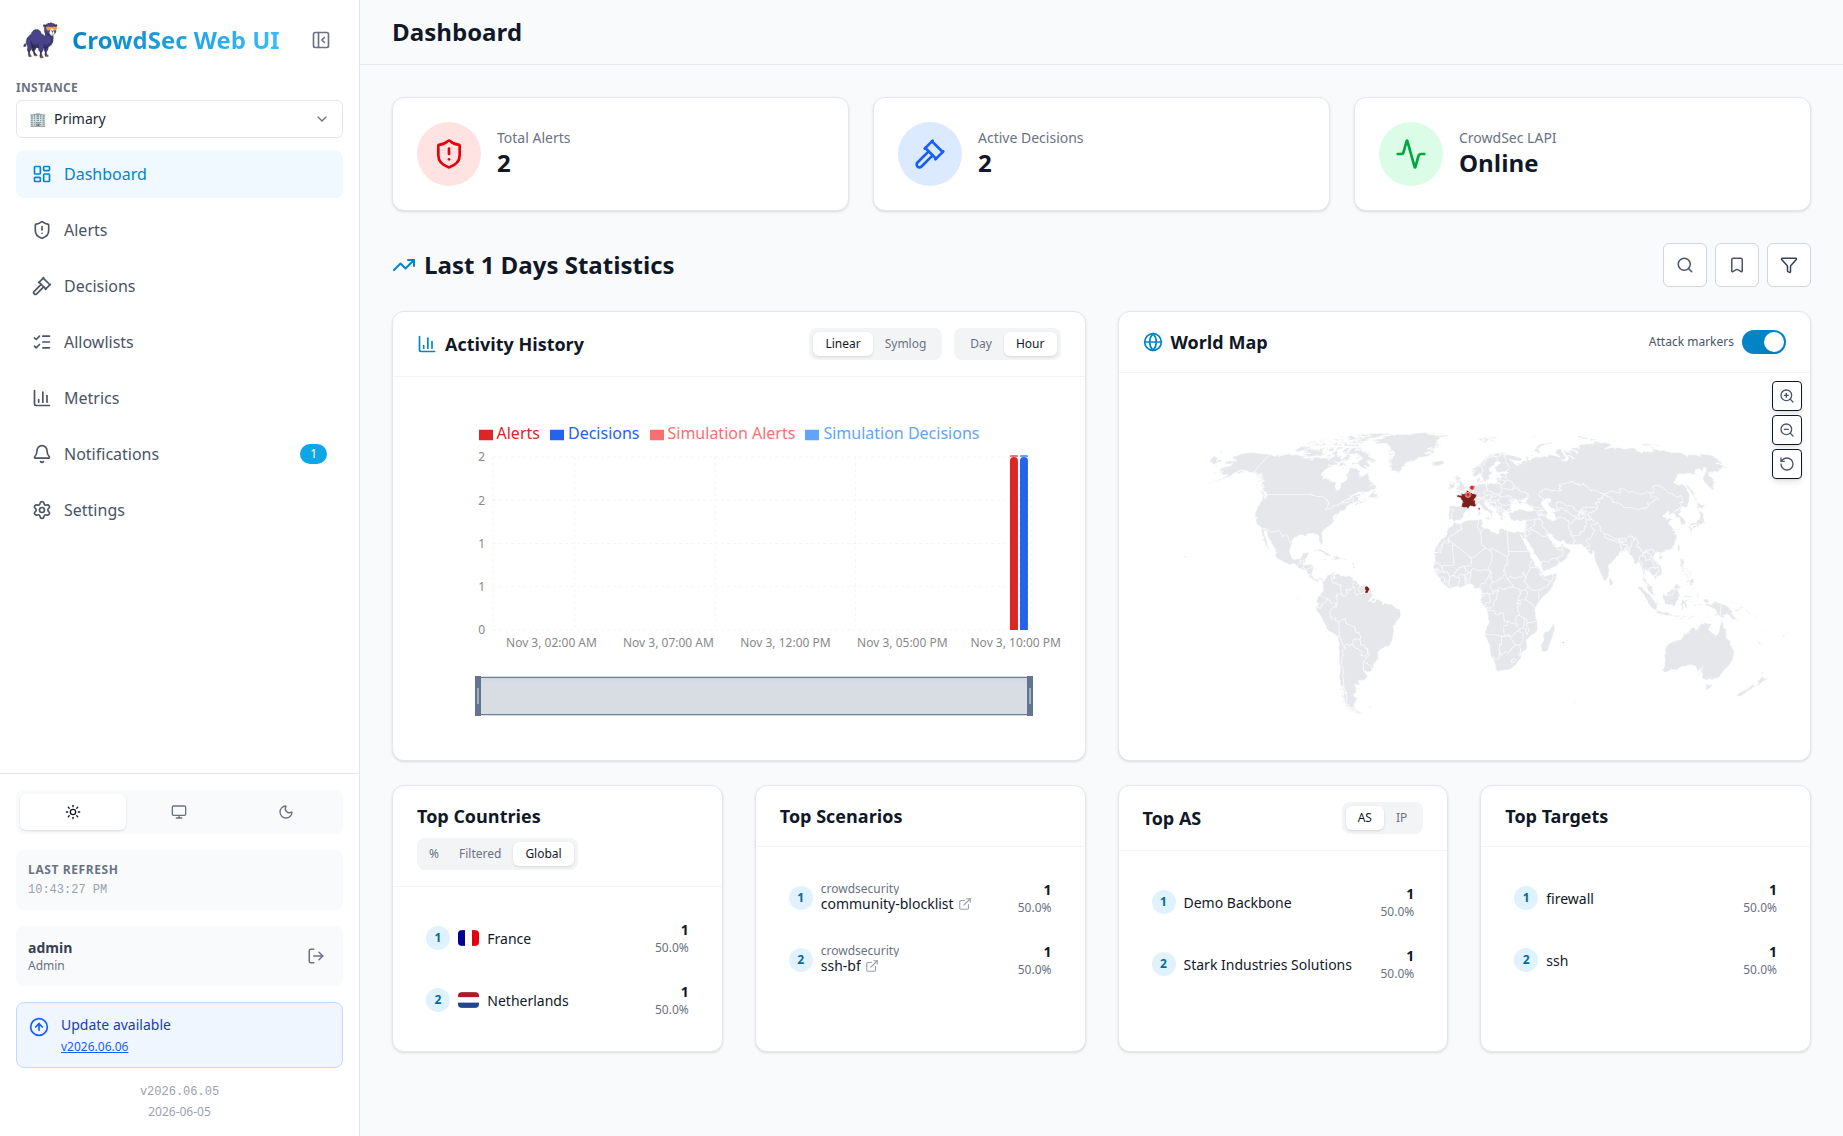
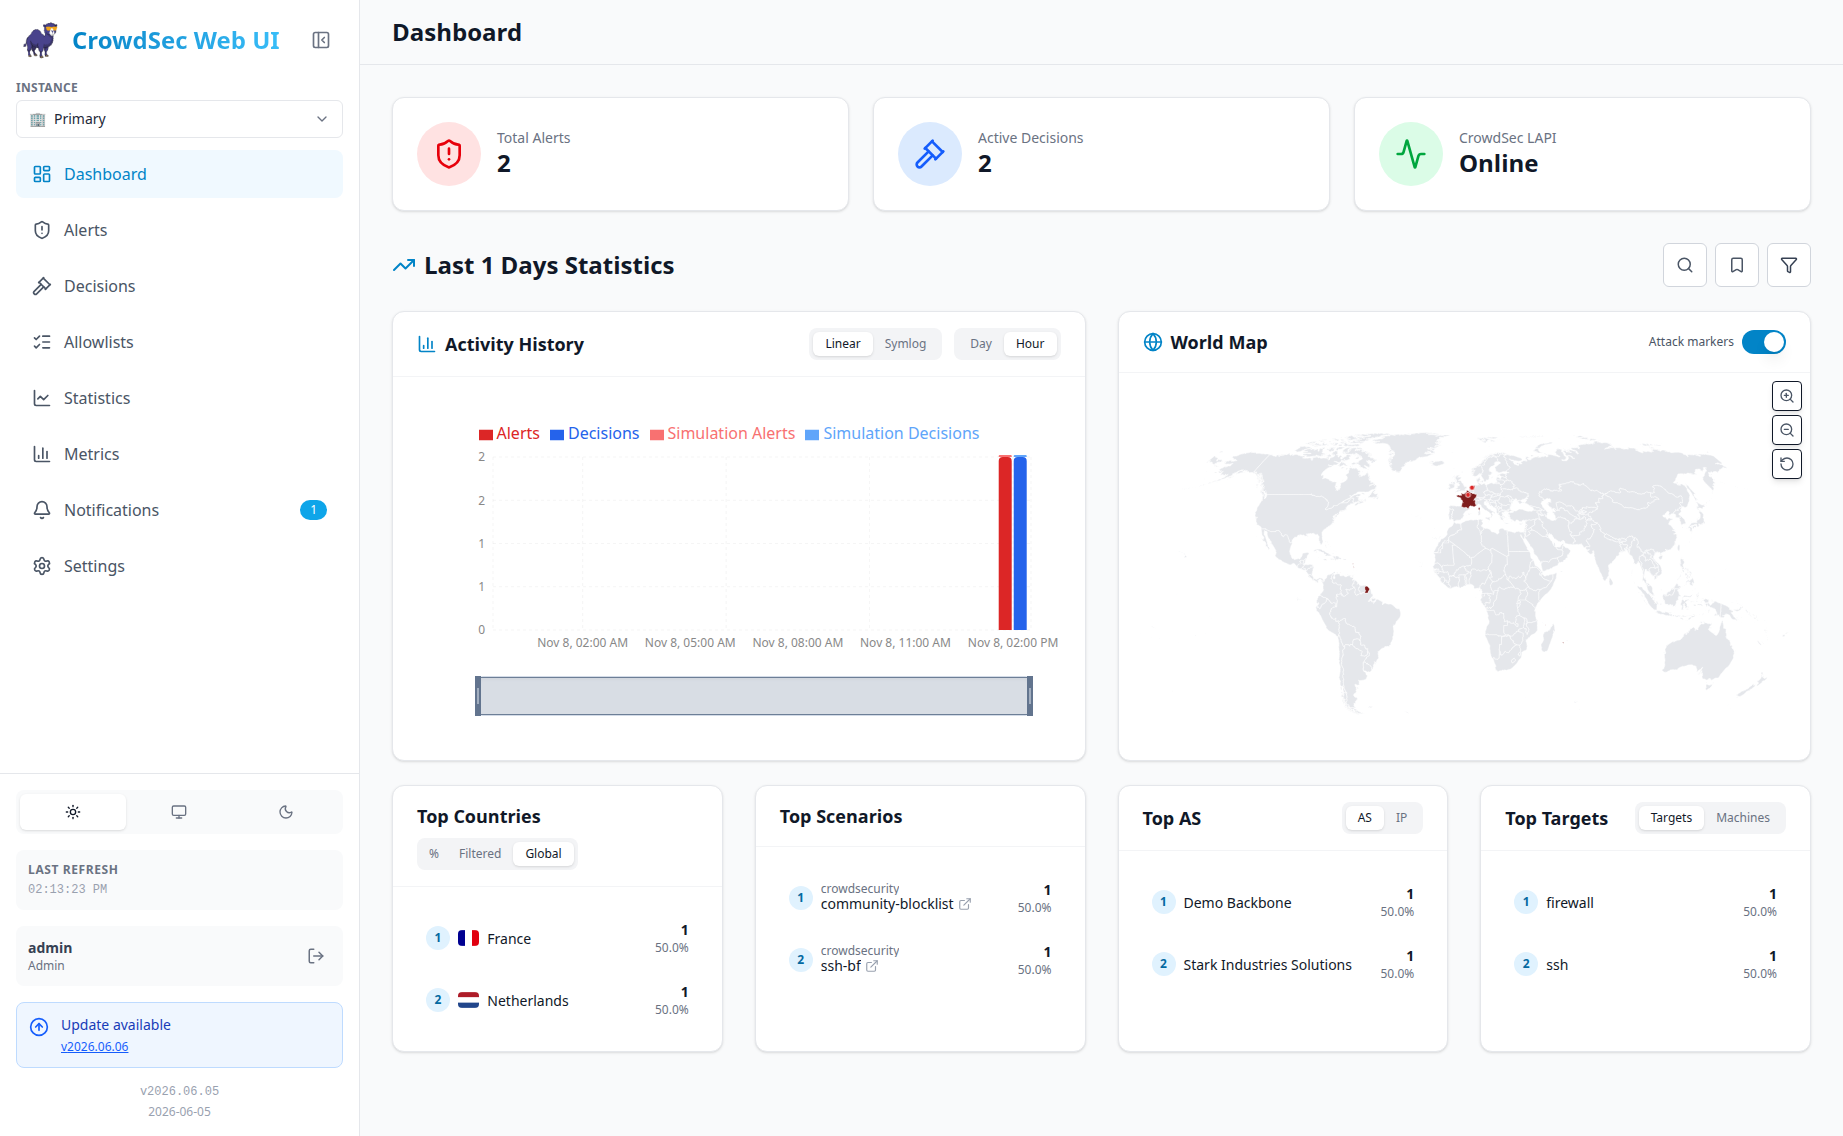
Refresh screenshots and document Statistics

diff --git a/screenshots/seed-demo-data.ts b/screenshots/seed-demo-data.ts
@@ -1,5 +1,6 @@
 import { rmSync } from 'node:fs';
 import path from 'node:path';
+import { removeStatisticsDatabase, seedStatisticsArchive } from '../scripts/load-test-statistics';
 import { hashPassword } from '../server/app-auth';
 import { CACHE_DATABASE_FILE, CrowdsecDatabase, STATE_DATABASE_FILE } from '../server/database';
 
@@ -13,6 +14,7 @@ for (const file of [CACHE_DATABASE_FILE, STATE_DATABASE_FILE, 'crowdsec.db']) {
     rmSync(path.join(dbDir, `${file}${suffix}`), { force: true });
   }
 }
+removeStatisticsDatabase(dbDir);
 rmSync(configPath, { force: true });
 
 const database = new CrowdsecDatabase({ dataDir: dbDir });
@@ -405,6 +407,20 @@ database.insertNotification({
 
 database.setMeta('refresh_interval_ms', '300000');
 database.setMeta('multi_instance_cache_schema_ready', 'true');
+database.setMeta('statistics_settings', JSON.stringify({ enabled: true }));
 database.close();
+
+// Keep the older demo traffic in the archive so the other pages retain their small cache fixtures.
+for (const [index, { instanceId, dailyAlerts }] of [
+  { instanceId: 'primary', dailyAlerts: 120 },
+  { instanceId: 'branch', dailyAlerts: 70 },
+  { instanceId: 'edge', dailyAlerts: 45 },
+].entries()) {
+  seedStatisticsArchive({
+    dbDir, instanceId, seed: index + 1, sourceSeed: 1, nowMs: now.getTime(),
+    historyDays: 30, cacheStartMs: Date.parse(pastIso(1)), dailyAlerts, retentionDays: 90,
+    log: (message) => console.log(`${instanceId}: ${message}`),
+  });
+}
 
 console.log(`Seeded screenshot databases in ${dbDir}`);

diff --git a/scripts/load-test-statistics.ts b/scripts/load-test-statistics.ts
@@ -193,12 +193,12 @@ export function seedStatisticsArchive(options: {
         const shape = statisticsAlertShape(index, atMs, nowMs, seed, sourceSeed);
         const identity = ['loadtest-archive', instanceId, index];
         rows.push({ seq: ++sequence, identity: JSON.stringify(identity), day: at.slice(0, 10), payload: JSON.stringify([1, 'a', at, instanceId, shape.ip,
-          shape.country, shape.asNumber, shape.asName, shape.machine, shape.machine, shape.scenario, shape.simulated ? 1 : 0, shape.eventsCount]) });
+          shape.country, shape.asNumber, shape.asName, shape.machine, shape.machine, shape.scenario, shape.simulated ? 1 : 0, shape.eventsCount, shape.target]) });
         alerts += 1;
         if (shape.bans) {
           rows.push({ seq: ++sequence, identity: JSON.stringify(['loadtest-archive-decision', instanceId, index]), day: at.slice(0, 10), payload: JSON.stringify([1, 'd', at, instanceId,
             shape.ip, shape.country, shape.asNumber, shape.asName, shape.machine, shape.machine, shape.scenario, shape.simulated ? 1 : 0,
-            at, shape.simulated ? 1 : 0, shape.decisionType, 'crowdsec', identity]) });
+            at, shape.simulated ? 1 : 0, shape.decisionType, 'crowdsec', identity, shape.target]) });
           decisions += 1;
         }
         if (rows.length >= 20_000) flush();

diff --git a/screenshots/demo-server.ts b/screenshots/demo-server.ts
@@ -210,8 +210,15 @@ const controller = createApp({
   mqttPublishImpl: async () => {},
 });
 
+await controller.statistics.run();
+const { error, backlog, backfillPending } = controller.statistics.configuration().status;
+if (error || backlog || backfillPending) {
+  throw new Error(error || 'Screenshot statistics backfill did not finish');
+}
+
 const server = serve({
   fetch: controller.fetch,
+  hostname: '127.0.0.1',
   port: controller.config.port,
 });
 

diff --git a/README.md b/README.md
@@ -14,7 +14,7 @@
 
 # CrowdSec Web UI
 
-A self-hosted dashboard for [CrowdSec](https://crowdsec.net/): investigate alerts, manage decisions, monitor runtime metrics, and send notifications from one responsive UI.
+A self-hosted web UI for investigating alerts, managing decisions, tracking long-term attack trends, monitoring runtime metrics, and sending notifications with [CrowdSec](https://crowdsec.net/).
 
 <div align="center">
   <a href="https://react.dev/"><img src="https://img.shields.io/badge/react-%2320232a.svg?style=for-the-badge&logo=react&logoColor=%2361DAFB" alt="React" /></a>
@@ -29,10 +29,11 @@ A self-hosted dashboard for [CrowdSec](https://crowdsec.net/): investigate alert
 | Area | Highlights |
 | --- | --- |
 | Dashboard | Alert and active-decision totals, attack map, drilldowns, top lists, shared quick filters, and simulation counts |
+| Statistics | Long-term attack trends, period comparisons, attacker and target rankings, and findings on recurring IPs, quiet machines, and gaps in ban coverage |
 | Alerts | Searchable alert history, persistent count-aware quick filters, CrowdSec alert contexts, IP/AS/location details, event metadata, simulation labels, configurable columns, and an optional view grouped by attacking IP session |
 | Decisions | Active and expired decisions, persistent count-aware quick filters, duplicate hiding, manual bans, custom durations, reasons, and cleanup actions |
 | Allowlists | Read-only view of CrowdSec centralized allowlists with an IP/range check, cross-instance differences, and allowlist protection for manual decisions |
-| Multi-instance | Several CrowdSec LAPIs, per-instance views, and a Combined scope for Dashboard, Alerts, Decisions, and Allowlists |
+| Multi-instance | Several CrowdSec LAPIs, per-instance views, and a Combined scope for Dashboard, Statistics, Alerts, Decisions, and Allowlists |
 | Metrics | Optional Prometheus views for LAPI activity, bouncers, AppSec, parsers, latency, parsing time, and whitelists |
 | Notifications | Alert, decision, CVE, availability, and update rules delivered through Apprise, Email, Gotify, MQTT, ntfy, or Webhooks |
 | Security | Initial administrator setup, local user management with admin and read-only roles, password and TOTP login, passkeys, OIDC SSO, linking local accounts to SSO identities, group roles, and instance-wide read-only mode |
@@ -45,6 +46,9 @@ A self-hosted dashboard for [CrowdSec](https://crowdsec.net/): investigate alert
 <p>
   <a href="screenshots/dashboard.png"><img src="screenshots/dashboard.png" alt="Dashboard" width="48%"></a>
   <a href="screenshots/metrics.png"><img src="screenshots/metrics.png" alt="Runtime Metrics" width="48%"></a>
+</p>
+<p align="center">
+  <a href="screenshots/statistics.png"><img src="screenshots/statistics.png" alt="Long-term statistics with findings, period comparisons, and an activity chart" width="65%"></a>
 </p>
 <p>
   <a href="screenshots/multi_instance.png"><img src="screenshots/multi_instance.png" alt="Combined multi-instance alerts" width="48%"></a>
@@ -1110,10 +1114,10 @@ statistics:
 
 Explicit YAML and environment settings lock the corresponding Settings controls. Other changes persist in `state.db` and apply without a restart.
 
-The **Statistics** page ranks attacking IPs, attacked machines and known targets, including exact unique IPs, linked bans, scenarios, country/ASN, activity dates and targeted machines. Top Targets shows alert counts and unique source IPs for each target. Targets are retained for newly captured alerts; observations archived before target collection was added have no target information. It is built to point out what needs attention:
+The **Statistics** page ranks attacking IPs, attacked machines and known targets. Rankings include unique IPs, linked bans, scenarios, country and ASN, activity dates, and targeted machines. Top Targets shows alert counts and unique source IPs for each target. Target information is available for alerts archived after target collection was added.
 
-- **Findings** list machines that stopped raising alerts (a stopped agent or broken log acquisition), scenarios that raise alerts but never lead to a ban (a profile or remediation gap), AppSec rules that block requests from IPs that are never banned, IPs that returned after a ban (ban durations too short), machines with a sharp increase, new attack types, a single AS behind a large share of alerts, and IPs attacking several machines. Expand a finding to load its details, 25 rows at a time (**Show more** extends a list up to 500): the IPs involved, the address ranges (/24 or /64) of a dominant AS, or a machine's last alert and scenarios. With enforcement permissions, **Ban** and **Block range** open the decision dialog prefilled for that address or range, and **Ban all** / **Block all** add the same decision for every listed address or range at once (allowlisted values are skipped unless you bypass the allowlist); Top IPs offer the single action.
-- **Summary tiles** show alerts, unique IPs (and how many were never seen before), bans, ban coverage (the share of attacking IPs that were banned), recurring IPs and IPs that returned after a ban, with the change against the preceding period of equal length.
+- **Findings** flag quiet machines, scenarios without bans, AppSec blocks, IPs that return after a ban, traffic spikes by machine, new attack types, dominant networks, and IPs that target several machines. Up to five findings appear initially, with warnings first. Expand a finding to see the IPs involved, the address ranges (`/24` or `/64`) of a dominant AS, or a machine's recent activity. IP and range tables start with 25 rows and can expand to 500. With enforcement permissions, **Ban** and **Block range** open the decision dialog for one value. **Ban all** and **Block all** apply the same decision to every listed value, skipping allowlisted values unless you bypass the allowlist. Top IPs also offer the single-IP action.
+- **Summary tiles** show alerts, unique IPs (and how many were never seen before), bans, ban coverage (the share of attacking IPs that were banned), recurring IPs, and IPs that returned after a ban. Most tiles compare their totals with the preceding period of equal length.
 - **Scenarios** show alerts with their trend, unique IPs, machines, bans and ban coverage per scenario; select one to filter the whole page by it.
 - Top countries and AS include their number of distinct IPs, which tells one noisy host from a botnet. Machine changes show increases and machines that went quiet.
 

diff --git a/API.md b/API.md
@@ -319,6 +319,20 @@ Supported dashboard filters: `instance`, `q`, `decision_q`, `country`, `scenario
 - The browser sends separate alert and decision queries from the same persisted Quick Filter state. Filtered Dashboard counts therefore match the corresponding paginated list totals, including default active-only and duplicate-hiding behavior on Decisions.
 - The legacy scalar filters remain supported. If both a scalar filter and `q` are supplied, both must match.
 
+## Long-term Statistics
+
+| Method | Endpoint | Description |
+| --- | --- | --- |
+| GET | `/api/statistics` | Return archived totals, period comparisons, activity series, rankings, and coverage for the selected scope. |
+| GET | `/api/statistics/details` | Return the IPs, ranges, or machines behind a finding. Accepts the same filters as `/api/statistics`. |
+| PUT | `/api/config/statistics` | Update any of `enabled`, `retentionDays`, `jobInterval`, and `jobTimeBudget`. Returns `{ "success": true, "statistics": { ... } }`. Blocked in read-only mode. Returns `409` with `code: "MANAGED_BY_CONFIG"` when a changed field is set by the application configuration. |
+
+- `from` and `to` are inclusive UTC dates in `YYYY-MM-DD` format. They default to 29 days ago and today, respectively. The range can span up to 3,650 days. The API accepts an end date up to one day ahead of the server's UTC date for clock skew.
+- `instance` defaults to `all` and accepts a configured instance ID. `simulation` accepts `live` (default), `simulated`, or `all`. When simulations are disabled, the API uses `live`. `limit` accepts `10` (default), `20`, or `50`.
+- Optional filters include `ip` (an IP address or range), `machine` (a JSON array containing the instance ID and machine ID), `scenario`, `country` (two-letter code), `network` (AS name), and `target`.
+- Finding details require `kind=ips`, `kind=returned`, or `kind=machines`. Use `network` to scope IP results to an AS, `history=1` to include bans before the selected range for returned IPs, or `machines` with a JSON array of 1–25 machine keys. IP and range lists accept a `size` of 1–500 and default to 25.
+- Both read endpoints return `400` for invalid filters and `503` with `retryAfterMs` when the archive is unavailable. `GET /api/config` includes the statistics settings, managed fields, and collection status in its `statistics` object.
+
 ## CrowdSec Metrics
 
 | Method | Endpoint | Description |

diff --git a/DEVELOPMENT.md b/DEVELOPMENT.md
@@ -109,6 +109,10 @@ ESLint and other tools that still require the compiler API. This follows the
 
 The synthetic large-dataset workflow is documented separately in [LOAD_TESTING.md](LOAD_TESTING.md).
 
+### README screenshots
+
+With Chrome or Chromium installed, run `pnpm run screenshots:update` from the repository root. The script recreates the synthetic cache and statistics archive in its temporary database directory, runs the local demo, and writes the PNGs to `screenshots/`. For a custom browser path, output directory, or ports, copy `screenshots/.env.example` to `screenshots/.env` and set the relevant overrides.
+
 ## Build and Image Metadata
 
 These values apply when building a local production bundle or container image.
